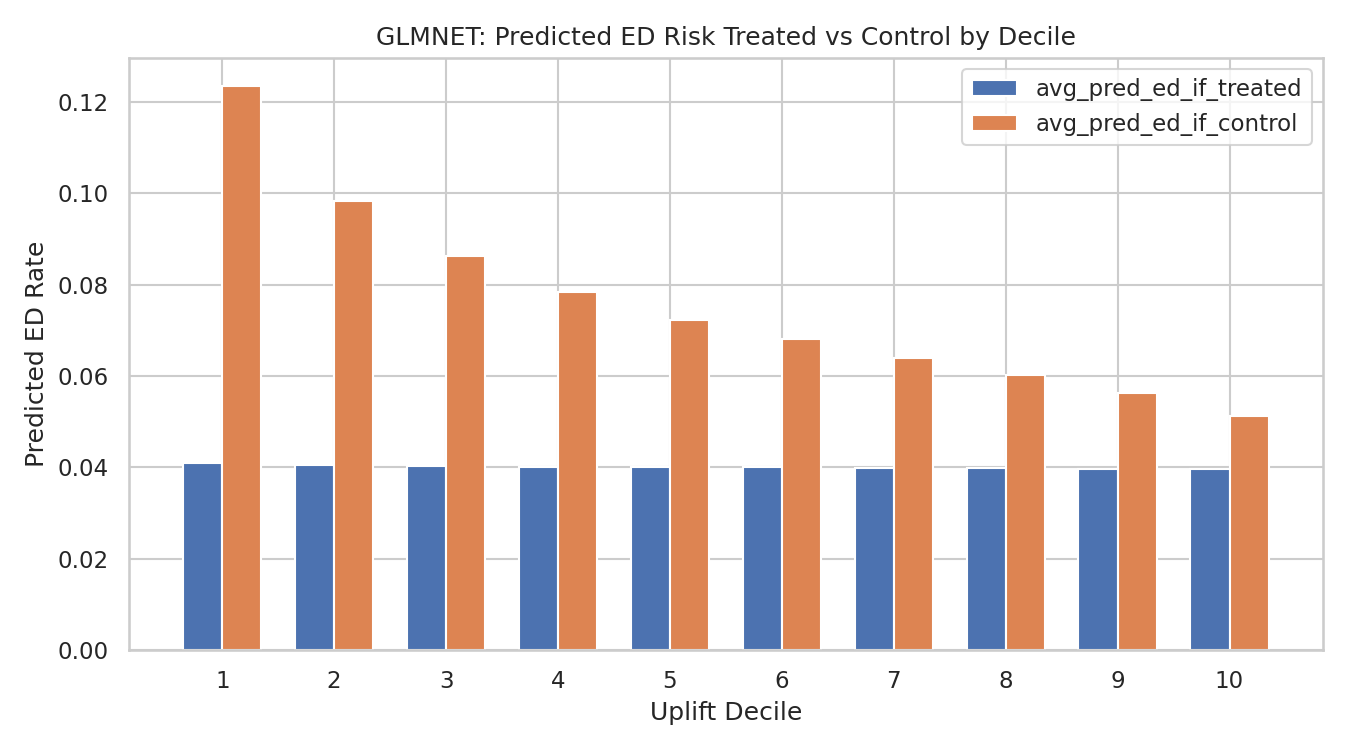
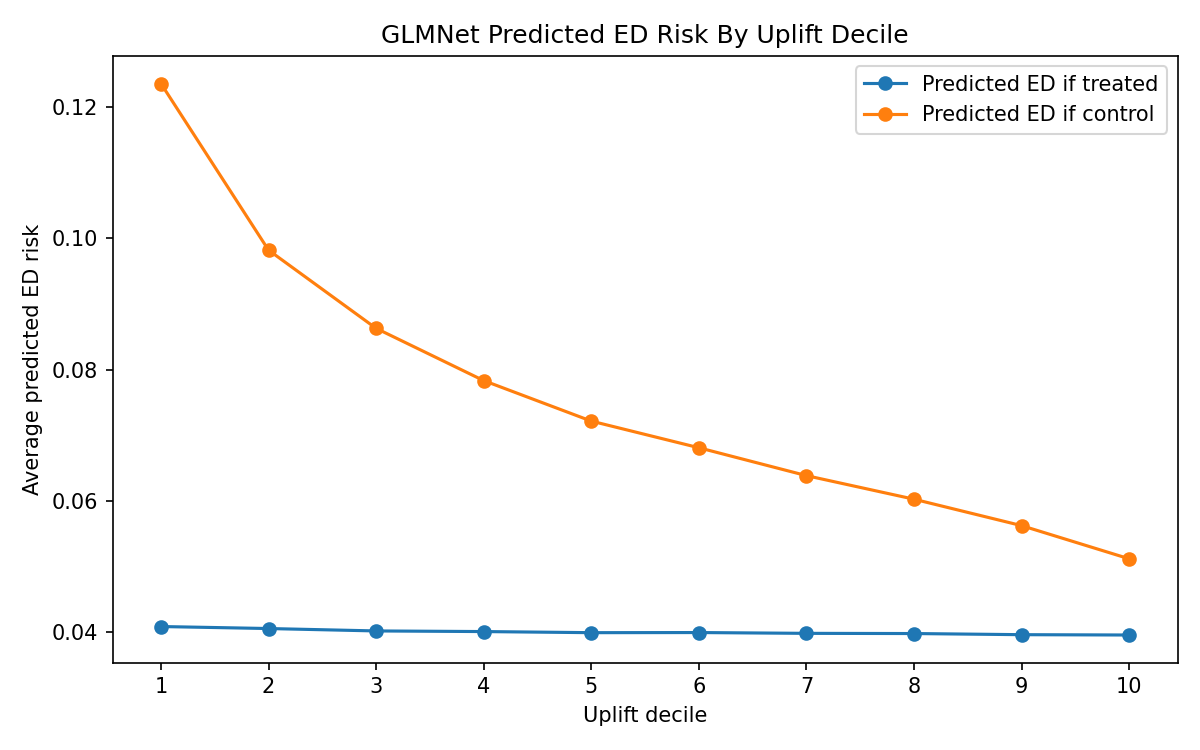
t

diff --git a/Code/generate_readme_tables.py b/Code/generate_readme_tables.py
@@ -73,8 +73,12 @@ def markdown_image(alt: str, path: str) -> str:
     return f"![{alt}]({path})"
 
 
+def repo_rel(path: Path) -> str:
+    return path.relative_to(ROOT).as_posix()
+
+
 def missing_output_note(path: Path) -> str:
-    rel = path.relative_to(ROOT).as_posix()
+    rel = repo_rel(path)
     return f"_Pending: run the notebook to generate `{rel}`._"
 
 
@@ -378,17 +382,26 @@ def glmnet_t_vs_x_decile_table() -> str:
 
     t_rows = read_csv(GLMNET_ROOT / "uplift_decile_summary.csv")
     x_rows = read_csv(x_path)
-    headers = [
+    t_headers = [
         "Uplift decile",
         "N",
-        "Avg benefit score",
+        "Avg T-learner benefit score",
         "Observed ED rate",
         "Avg predicted ED if treated",
         "Avg predicted ED if control",
         "Treatment pct",
     ]
-    t_table = html_table(headers, learner_decile_rows(t_rows))
-    x_table = html_table(headers, learner_decile_rows(x_rows))
+    x_headers = [
+        "Uplift decile",
+        "N",
+        "Avg X-learner benefit score",
+        "Observed ED rate",
+        "Avg outcome-model ED if treated",
+        "Avg outcome-model ED if control",
+        "Treatment pct",
+    ]
+    t_table = html_table(t_headers, learner_decile_rows(t_rows))
+    x_table = html_table(x_headers, learner_decile_rows(x_rows))
     return "\n".join(
         [
             '<table><tr>',
@@ -399,6 +412,11 @@ def glmnet_t_vs_x_decile_table() -> str:
             x_table,
             '</td>',
             '</tr></table>',
+            "",
+            "_Note: In the T-learner table, benefit is the direct contrast between the "
+            "control and treated outcome-model predictions. In the X-learner table, "
+            "benefit is the final weighted treatment-effect-model estimate; the treated "
+            "and control outcome-model columns are included only as risk context._",
         ]
     )
 
@@ -452,27 +470,39 @@ def glmnet_t_vs_x_chart_block() -> str:
 
 
 def glmnet_xlearner_consistency_table() -> str:
-    path = XLEARNER_ROOT / "xlearner_vs_tlearner_consistency_summary.csv"
+    path = XLEARNER_GLMNET_ROOT / "xlearner_scored_test_output.csv"
     if not path.exists():
         return missing_output_note(path)
 
-    rows = []
-    for row in read_csv(path):
-        if row["model"].strip().upper() != "GLMNET":
-            continue
-        rows.append(
-            [
-                row["model"].replace("GLMNET", "GLMNet"),
-                fnum(row["pearson_benefit_score_corr"]),
-                fnum(row["spearman_benefit_score_corr"]),
-                pct(row["top_decile_overlap_pct"]),
-                fnum(row["t_learner_mean_benefit_score"]),
-                fnum(row["x_learner_mean_benefit_score"]),
-            ]
+    scored = pd.read_csv(path)
+    required = {"t_learner_benefit_score", "benefit_score", "uplift_decile"}
+    missing = sorted(required - set(scored.columns))
+    if missing:
+        return (
+            "_Pending: GLMNet X-learner scored output is missing required columns: "
+            + ", ".join(f"`{column}`" for column in missing)
+            + "._"
         )
 
-    if not rows:
-        return "_Pending: GLMNet consistency row was not found in the X-learner consistency output._"
+    t_decile = pd.qcut(
+        scored["t_learner_benefit_score"].rank(method="first", ascending=False),
+        q=10,
+        labels=False,
+    ) + 1
+    t_top = set(scored.index[t_decile == 1])
+    x_top = set(scored.index[scored["uplift_decile"] == 1])
+    top_overlap = len(t_top & x_top) / len(t_top) if t_top else float("nan")
+
+    rows = [
+        [
+            "GLMNet",
+            fnum(scored["t_learner_benefit_score"].corr(scored["benefit_score"], method="pearson")),
+            fnum(scored["t_learner_benefit_score"].corr(scored["benefit_score"], method="spearman")),
+            pct(top_overlap),
+            fnum(scored["t_learner_benefit_score"].mean()),
+            fnum(scored["benefit_score"].mean()),
+        ]
+    ]
 
     return markdown_table(
         [
@@ -605,6 +635,110 @@ def glmnet_benefit_driver_chart_block() -> str:
             + " |",
         ]
     )
+
+
+def ensure_glmnet_calibration_chart() -> Path:
+    path = GLMNET_ROOT / "calibration_by_decile.csv"
+    chart_path = GLMNET_ROOT / "dashboard_calibration_plot.png"
+    df = pd.read_csv(path)
+    fig, ax = plt.subplots(figsize=(8, 5))
+    for group, group_df in df.groupby("group"):
+        group_df = group_df.sort_values("avg_predicted_ed_rate")
+        ax.plot(
+            group_df["avg_predicted_ed_rate"],
+            group_df["observed_ed_rate"],
+            marker="o",
+            label=group,
+        )
+    max_value = max(df["avg_predicted_ed_rate"].max(), df["observed_ed_rate"].max())
+    ax.plot([0, max_value], [0, max_value], linestyle="--", color="#555555", label="Perfect calibration")
+    ax.set_title("GLMNet Calibration By Factual Group")
+    ax.set_xlabel("Average predicted ED rate")
+    ax.set_ylabel("Observed ED rate")
+    ax.legend()
+    fig.tight_layout()
+    fig.savefig(chart_path, dpi=150)
+    plt.close(fig)
+    return chart_path
+
+
+def ensure_glmnet_predicted_treated_vs_control_chart() -> Path:
+    path = GLMNET_ROOT / "uplift_decile_summary.csv"
+    chart_path = GLMNET_ROOT / "dashboard_predicted_treated_vs_control.png"
+    df = pd.read_csv(path).sort_values("uplift_decile")
+    fig, ax = plt.subplots(figsize=(8, 5))
+    ax.plot(
+        df["uplift_decile"],
+        df["avg_pred_ed_if_treated"],
+        marker="o",
+        label="Predicted ED if treated",
+    )
+    ax.plot(
+        df["uplift_decile"],
+        df["avg_pred_ed_if_control"],
+        marker="o",
+        label="Predicted ED if control",
+    )
+    ax.set_title("GLMNet Predicted ED Risk By Uplift Decile")
+    ax.set_xlabel("Uplift decile")
+    ax.set_ylabel("Average predicted ED risk")
+    ax.set_xticks(df["uplift_decile"])
+    ax.legend()
+    fig.tight_layout()
+    fig.savefig(chart_path, dpi=150)
+    plt.close(fig)
+    return chart_path
+
+
+def ensure_glmnet_avg_benefit_chart() -> Path:
+    path = GLMNET_ROOT / "uplift_decile_summary.csv"
+    chart_path = GLMNET_ROOT / "dashboard_avg_benefit_by_decile.png"
+    df = pd.read_csv(path).sort_values("uplift_decile")
+    fig, ax = plt.subplots(figsize=(8, 5))
+    ax.bar(df["uplift_decile"].astype(str), df["avg_benefit_score"])
+    ax.set_title("GLMNet Average Predicted Benefit By Uplift Decile")
+    ax.set_xlabel("Uplift decile")
+    ax.set_ylabel("Average predicted benefit")
+    ax.axhline(0, color="#333333", linewidth=1)
+    fig.tight_layout()
+    fig.savefig(chart_path, dpi=150)
+    plt.close(fig)
+    return chart_path
+
+
+def ensure_glmnet_benefit_driver_chart() -> Path:
+    path = GLMNET_ROOT / "shap_importance_benefit_score.csv"
+    chart_path = GLMNET_ROOT / "dashboard_shap_benefit_score.png"
+    df = pd.read_csv(path).head(20).sort_values("mean_abs_benefit_contribution")
+    fig, ax = plt.subplots(figsize=(9, 6))
+    ax.barh(df["feature"], df["mean_abs_benefit_contribution"])
+    ax.set_title("GLMNet T-Learner: Top Drivers of Predicted Treatment Benefit")
+    ax.set_xlabel("Mean absolute shared-standardized logit contribution")
+    ax.set_ylabel("Feature")
+    fig.tight_layout()
+    fig.savefig(chart_path, dpi=150)
+    plt.close(fig)
+    return chart_path
+
+
+def ensure_glmnet_roi_chart() -> Path:
+    path = GLMNET_ROOT / "uplift_roi_by_decile.csv"
+    chart_path = GLMNET_ROOT / "dashboard_roi_net_savings_by_decile.png"
+    df = pd.read_csv(path).sort_values("uplift_decile")
+    fig, ax = plt.subplots(figsize=(8, 5))
+    ax.bar(df["uplift_decile"].astype(str), df["net_savings"])
+    ax.axhline(0, color="#333333", linewidth=1)
+    ax.set_title("GLMNet Net Savings By Uplift Decile")
+    ax.set_xlabel("Uplift decile")
+    ax.set_ylabel("Net savings")
+    fig.tight_layout()
+    fig.savefig(chart_path, dpi=150)
+    plt.close(fig)
+    return chart_path
+
+
+def chart_image(alt: str, chart_path: Path) -> str:
+    return markdown_image(alt, repo_rel(chart_path))
 
 
 def glmnet_benefit_driver_interpretation() -> str:
@@ -796,23 +930,23 @@ TEXT_GENERATORS: dict[str, Callable[[], str]] = {
 
 
 CHART_GENERATORS: dict[str, Callable[[], str]] = {
-    "glmnet_calibration_plot": lambda: markdown_image(
+    "glmnet_calibration_plot": lambda: chart_image(
         "GLMNet calibration plot",
-        "Outputs/Uplift/Python/T-Learner/GLMNet/dashboard_calibration_plot.png",
+        ensure_glmnet_calibration_chart(),
     ),
-    "glmnet_predicted_treated_vs_control": lambda: markdown_image(
+    "glmnet_predicted_treated_vs_control": lambda: chart_image(
         "GLMNet predicted ED risk if treated versus control",
-        "Outputs/Uplift/Python/T-Learner/GLMNet/dashboard_predicted_treated_vs_control.png",
+        ensure_glmnet_predicted_treated_vs_control_chart(),
     ),
-    "glmnet_avg_benefit_by_decile": lambda: markdown_image(
+    "glmnet_avg_benefit_by_decile": lambda: chart_image(
         "GLMNet average predicted benefit by uplift decile",
-        "Outputs/Uplift/Python/T-Learner/GLMNet/dashboard_avg_benefit_by_decile.png",
+        ensure_glmnet_avg_benefit_chart(),
     ),
     "glmnet_t_vs_x_avg_benefit_charts": glmnet_t_vs_x_chart_block,
     "glmnet_benefit_driver_chart": glmnet_benefit_driver_chart_block,
-    "glmnet_roi_by_decile": lambda: markdown_image(
+    "glmnet_roi_by_decile": lambda: chart_image(
         "GLMNet ROI net savings by uplift decile",
-        "Outputs/Uplift/Python/T-Learner/GLMNet/dashboard_roi_net_savings_by_decile.png",
+        ensure_glmnet_roi_chart(),
     ),
 }
 
@@ -840,7 +974,7 @@ def main() -> None:
     for name, generator in CHART_GENERATORS.items():
         text = replace_block(text, "CHART", name, generator())
     README_PATH.write_text(text, encoding="utf-8", newline="\n")
-    print(f"Updated generated tables in {README_PATH}")
+    print(f"Updated generated README tables and charts in {README_PATH}")
 
 
 if __name__ == "__main__":

diff --git a/PRISM_Intervention_Benefit_Modeling_README.md b/PRISM_Intervention_Benefit_Modeling_README.md
@@ -316,12 +316,14 @@ Because GLMNet is the stronger candidate model based on held-out AUC, Brier scor
 <!-- AUTO_TABLE:glmnet_t_vs_x_decile_summary START -->
 <table><tr>
 <td valign="top" width="50%"><strong>GLMNet T-learner deciles</strong>
-<table><thead><tr><th>Uplift decile</th><th>N</th><th>Avg benefit score</th><th>Observed ED rate</th><th>Avg predicted ED if treated</th><th>Avg predicted ED if control</th><th>Treatment pct</th></tr></thead><tbody><tr><td>1</td><td>30</td><td>0.0827</td><td>0.2333</td><td>0.0409</td><td>0.1236</td><td>0.5000</td></tr><tr><td>2</td><td>30</td><td>0.0576</td><td>0.1000</td><td>0.0406</td><td>0.0982</td><td>0.3667</td></tr><tr><td>3</td><td>30</td><td>0.0461</td><td>0.0333</td><td>0.0402</td><td>0.0863</td><td>0.5000</td></tr><tr><td>4</td><td>30</td><td>0.0382</td><td>0.0667</td><td>0.0401</td><td>0.0784</td><td>0.4000</td></tr><tr><td>5</td><td>30</td><td>0.0322</td><td>0.0667</td><td>0.0400</td><td>0.0722</td><td>0.2667</td></tr><tr><td>6</td><td>30</td><td>0.0281</td><td>0.0333</td><td>0.0400</td><td>0.0681</td><td>0.5333</td></tr><tr><td>7</td><td>30</td><td>0.0240</td><td>0.0000</td><td>0.0399</td><td>0.0639</td><td>0.4000</td></tr><tr><td>8</td><td>30</td><td>0.0205</td><td>0.0000</td><td>0.0398</td><td>0.0603</td><td>0.3000</td></tr><tr><td>9</td><td>30</td><td>0.0166</td><td>0.0000</td><td>0.0397</td><td>0.0563</td><td>0.4333</td></tr><tr><td>10</td><td>30</td><td>0.0116</td><td>0.0667</td><td>0.0396</td><td>0.0512</td><td>0.2333</td></tr></tbody></table>
+<table><thead><tr><th>Uplift decile</th><th>N</th><th>Avg T-learner benefit score</th><th>Observed ED rate</th><th>Avg predicted ED if treated</th><th>Avg predicted ED if control</th><th>Treatment pct</th></tr></thead><tbody><tr><td>1</td><td>30</td><td>0.0827</td><td>0.2333</td><td>0.0409</td><td>0.1236</td><td>0.5000</td></tr><tr><td>2</td><td>30</td><td>0.0576</td><td>0.1000</td><td>0.0406</td><td>0.0982</td><td>0.3667</td></tr><tr><td>3</td><td>30</td><td>0.0461</td><td>0.0333</td><td>0.0402</td><td>0.0863</td><td>0.5000</td></tr><tr><td>4</td><td>30</td><td>0.0382</td><td>0.0667</td><td>0.0401</td><td>0.0784</td><td>0.4000</td></tr><tr><td>5</td><td>30</td><td>0.0322</td><td>0.0667</td><td>0.0400</td><td>0.0722</td><td>0.2667</td></tr><tr><td>6</td><td>30</td><td>0.0281</td><td>0.0333</td><td>0.0400</td><td>0.0681</td><td>0.5333</td></tr><tr><td>7</td><td>30</td><td>0.0240</td><td>0.0000</td><td>0.0399</td><td>0.0639</td><td>0.4000</td></tr><tr><td>8</td><td>30</td><td>0.0205</td><td>0.0000</td><td>0.0398</td><td>0.0603</td><td>0.3000</td></tr><tr><td>9</td><td>30</td><td>0.0166</td><td>0.0000</td><td>0.0397</td><td>0.0563</td><td>0.4333</td></tr><tr><td>10</td><td>30</td><td>0.0116</td><td>0.0667</td><td>0.0396</td><td>0.0512</td><td>0.2333</td></tr></tbody></table>
 </td>
 <td valign="top" width="50%"><strong>GLMNet X-learner deciles</strong>
-<table><thead><tr><th>Uplift decile</th><th>N</th><th>Avg benefit score</th><th>Observed ED rate</th><th>Avg predicted ED if treated</th><th>Avg predicted ED if control</th><th>Treatment pct</th></tr></thead><tbody><tr><td>1</td><td>30</td><td>0.0838</td><td>0.2000</td><td>0.0410</td><td>0.1181</td><td>0.5333</td></tr><tr><td>2</td><td>30</td><td>0.0552</td><td>0.0667</td><td>0.0404</td><td>0.0951</td><td>0.3667</td></tr><tr><td>3</td><td>30</td><td>0.0460</td><td>0.0333</td><td>0.0400</td><td>0.0763</td><td>0.2667</td></tr><tr><td>4</td><td>30</td><td>0.0410</td><td>0.0667</td><td>0.0401</td><td>0.0772</td><td>0.3000</td></tr><tr><td>5</td><td>30</td><td>0.0382</td><td>0.0667</td><td>0.0399</td><td>0.0691</td><td>0.2333</td></tr><tr><td>6</td><td>30</td><td>0.0352</td><td>0.0333</td><td>0.0399</td><td>0.0692</td><td>0.5333</td></tr><tr><td>7</td><td>30</td><td>0.0314</td><td>0.0000</td><td>0.0398</td><td>0.0646</td><td>0.4667</td></tr><tr><td>8</td><td>30</td><td>0.0278</td><td>0.1000</td><td>0.0399</td><td>0.0646</td><td>0.5000</td></tr><tr><td>9</td><td>30</td><td>0.0239</td><td>0.0333</td><td>0.0398</td><td>0.0640</td><td>0.3333</td></tr><tr><td>10</td><td>30</td><td>0.0137</td><td>0.0000</td><td>0.0399</td><td>0.0601</td><td>0.4000</td></tr></tbody></table>
+<table><thead><tr><th>Uplift decile</th><th>N</th><th>Avg X-learner benefit score</th><th>Observed ED rate</th><th>Avg outcome-model ED if treated</th><th>Avg outcome-model ED if control</th><th>Treatment pct</th></tr></thead><tbody><tr><td>1</td><td>30</td><td>0.0838</td><td>0.2000</td><td>0.0410</td><td>0.1181</td><td>0.5333</td></tr><tr><td>2</td><td>30</td><td>0.0552</td><td>0.0667</td><td>0.0404</td><td>0.0951</td><td>0.3667</td></tr><tr><td>3</td><td>30</td><td>0.0460</td><td>0.0333</td><td>0.0400</td><td>0.0763</td><td>0.2667</td></tr><tr><td>4</td><td>30</td><td>0.0410</td><td>0.0667</td><td>0.0401</td><td>0.0772</td><td>0.3000</td></tr><tr><td>5</td><td>30</td><td>0.0382</td><td>0.0667</td><td>0.0399</td><td>0.0691</td><td>0.2333</td></tr><tr><td>6</td><td>30</td><td>0.0352</td><td>0.0333</td><td>0.0399</td><td>0.0692</td><td>0.5333</td></tr><tr><td>7</td><td>30</td><td>0.0314</td><td>0.0000</td><td>0.0398</td><td>0.0646</td><td>0.4667</td></tr><tr><td>8</td><td>30</td><td>0.0278</td><td>0.1000</td><td>0.0399</td><td>0.0646</td><td>0.5000</td></tr><tr><td>9</td><td>30</td><td>0.0239</td><td>0.0333</td><td>0.0398</td><td>0.0640</td><td>0.3333</td></tr><tr><td>10</td><td>30</td><td>0.0137</td><td>0.0000</td><td>0.0399</td><td>0.0601</td><td>0.4000</td></tr></tbody></table>
 </td>
 </tr></table>
+
+_Note: In the T-learner table, benefit is the direct contrast between the control and treated outcome-model predictions. In the X-learner table, benefit is the final weighted treatment-effect-model estimate; the treated and control outcome-model columns are included only as risk context._
 <!-- AUTO_TABLE:glmnet_t_vs_x_decile_summary END -->
 
 <!-- AUTO_CHART:glmnet_t_vs_x_avg_benefit_charts START -->
